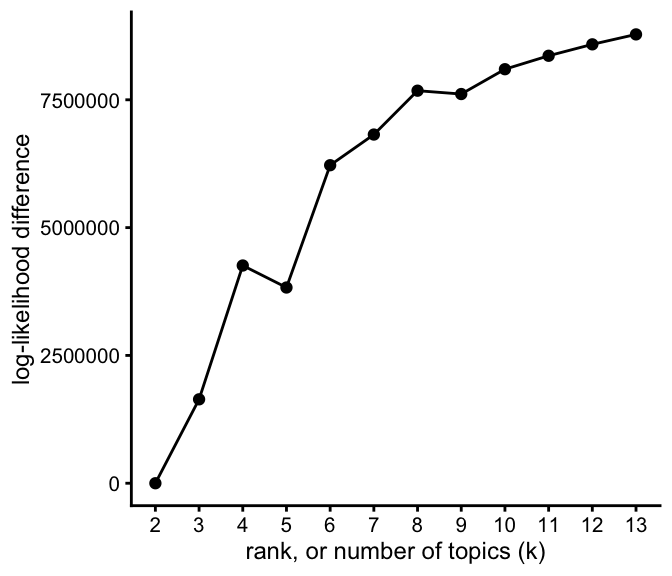
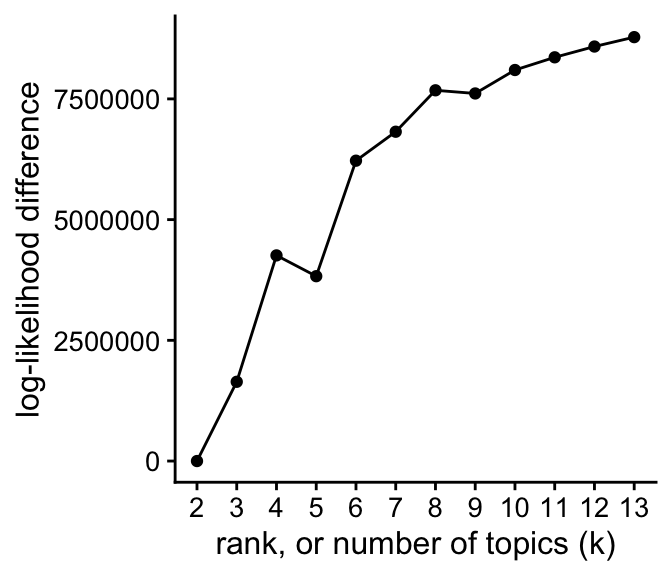
Made several improvements to assess_fits_droplet.

Changed region(s): [[0.0, 0.0312, 1.0, 0.9688], [0.3438, 0.0312, 0.9688, 0.5625], [0.3125, 0.5312, 0.375, 0.6875]]

diff --git a/docs/assess_fits_droplet.html b/docs/assess_fits_droplet.html
@@ -412,16 +412,16 @@ This reproducible <a href="http://rmarkdown.rstudio.com">R Markdown</a> analysis
 <div class="panel panel-default">
 <div class="panel-heading">
 <p class="panel-title">
-<a data-toggle="collapse" data-parent="#workflowr-checks" href="#strongRepositoryversionstrongahrefhttpsgithubcomstephenslabsinglecelltopicstree1ef2ac6e157d203e424ebf3399a96787ccf2bb73targetblank1ef2ac6a"> <span class="glyphicon glyphicon-ok text-success" aria-hidden="true"></span> <strong>Repository version:</strong> <a href="https://github.com/stephenslab/single-cell-topics/tree/1ef2ac6e157d203e424ebf3399a96787ccf2bb73" target="_blank">1ef2ac6</a> </a>
+<a data-toggle="collapse" data-parent="#workflowr-checks" href="#strongRepositoryversionstrongahrefhttpsgithubcomstephenslabsinglecelltopicstree116c9fb52ff4ad2151bd614054e98106d3d57bddtargetblank116c9fba"> <span class="glyphicon glyphicon-ok text-success" aria-hidden="true"></span> <strong>Repository version:</strong> <a href="https://github.com/stephenslab/single-cell-topics/tree/116c9fb52ff4ad2151bd614054e98106d3d57bdd" target="_blank">116c9fb</a> </a>
 </p>
 </div>
[2 lines of base64/hex data omitted]
 <div class="panel-body">
 <p>
 Great! You are using Git for version control. Tracking code development and connecting the code version to the results is critical for reproducibility.
 </p>
 <p>
-The results in this page were generated with repository version <a href="https://github.com/stephenslab/single-cell-topics/tree/1ef2ac6e157d203e424ebf3399a96787ccf2bb73" target="_blank">1ef2ac6</a>. See the <em>Past versions</em> tab to see a history of the changes made to the R Markdown and HTML files.
+The results in this page were generated with repository version <a href="https://github.com/stephenslab/single-cell-topics/tree/116c9fb52ff4ad2151bd614054e98106d3d57bdd" target="_blank">116c9fb</a>. See the <em>Past versions</em> tab to see a history of the changes made to the R Markdown and HTML files.
 </p>
 <p>
 Note that you need to be careful to ensure that all relevant files for the analysis have been committed to Git prior to generating the results (you can use <code>wflow_publish</code> or <code>wflow_git_commit</code>). workflowr only checks the R Markdown file, but you know if there are other scripts or data files that it depends on. Below is the status of the Git repository when the results were generated:
@@ -429,6 +429,9 @@ Note that you need to be careful to ensure that all relevant files for the analy
 <pre><code>
 Ignored files:
     Ignored:    output/droplet/fits-droplet.RData
+
+Unstaged changes:
+    Modified:   code/functions_for_assessing_fits.R
 
 </code></pre>
 <p>
@@ -467,6 +470,40 @@ Message
 </tr>
 </thead>
 <tbody>
+<tr>
+<td>
+Rmd
+</td>
+<td>
+<a href="https://github.com/stephenslab/single-cell-topics/blob/116c9fb52ff4ad2151bd614054e98106d3d57bdd/analysis/assess_fits_droplet.Rmd" target="_blank">116c9fb</a>
+</td>
+<td>
+Peter Carbonetto
+</td>
+<td>
+2020-08-09
+</td>
+<td>
+wflow_publish(“assess_fits_droplet.Rmd”)
+</td>
+</tr>
+<tr>
+<td>
+html
+</td>
+<td>
+<a href="https://rawcdn.githack.com/stephenslab/single-cell-topics/b8a783d0e3ffe4934c06c30065ec46d97f0e0ee1/docs/assess_fits_droplet.html" target="_blank">b8a783d</a>
+</td>
+<td>
+Peter Carbonetto
+</td>
+<td>
+2020-08-09
+</td>
+<td>
+First build of assess_fits_droplet analysis.
+</td>
+</tr>
 <tr>
 <td>
 Rmd
@@ -531,26 +568,130 @@ Working on assess_fits_droplet analysis.
 library(ggplot2)
 library(cowplot)
 source(&quot;../code/functions_for_assessing_fits.R&quot;)</code></pre>
-<p>Load the results of running <code>fit_poisson_nmf</code> on the purified PBMC data, with different algorithms, and for various choices of <span class="math inline">\(k\)</span> (the number of “topics”). These results were then compiled into a single file using the <code>compile_poisson_nmf_fits.R</code> script.</p>
+<p>Load the results of running <code>fit_poisson_nmf</code> on the droplet data, with different algorithms, and for various choices of <span class="math inline">\(k\)</span> (the number of “topics”).</p>
 <pre class="r"><code>load(&quot;../output/droplet/fits-droplet.RData&quot;)</code></pre>
-<p>This plot shows the improvement in the log-likelihood as the rank, <span class="math inline">\(k\)</span>, is increased. The log-likelihoods are shown relative to the log-likelihood at rank <span class="math inline">\(k = 2\)</span>.</p>
-<pre class="r"><code>plot_loglik_vs_rank(fits)</code></pre>
+<p>This plot shows the improvement in the log-likelihood as the rank, <span class="math inline">\(k\)</span>, is increased. The log-likelihoods are shown relative to the log-likelihood at <span class="math inline">\(k = 2\)</span>.</p>
+<pre class="r"><code>plot_loglik_vs_rank(fits) +
+  theme_cowplot(font_size = 12)</code></pre>
 <p><img src="figure/assess_fits_droplet.Rmd/plot-loglik-vs-k-1.png" width="336" style="display: block; margin: auto;" /></p>
-<p>As expected, the likelihood improves with larger rank, <span class="math inline">\(k\)</span>, although these improvements are large for smaller <span class="math inline">\(k\)</span>, and more gradual as <span class="math inline">\(k\)</span> gets larger.</p>
-<p>This first set of plots shows the improvement in the fit over time, for all choices of <span class="math inline">\(k\)</span>, and for each of the three optimization methods (EM, CCD, SCD), with and without the extrapolation scheme. The quality of the fit is measured by the log-likelihood, <em>relative to the best log-likelihood that was identified among all methods compared.</em></p>
+<p>
+<button type="button" class="btn btn-default btn-xs btn-workflowr btn-workflowr-fig" data-toggle="collapse" data-target="#fig-plot-loglik-vs-k-1">
+Past versions of plot-loglik-vs-k-1.png
+</button>
+</p>
+<div id="fig-plot-loglik-vs-k-1" class="collapse">
+<div class="table-responsive">
+<table class="table table-condensed table-hover">
+<thead>
+<tr>
+<th>
+Version
+</th>
+<th>
+Author
+</th>
+<th>
+Date
+</th>
+</tr>
+</thead>
+<tbody>
+<tr>
+<td>
+<a href="https://github.com/stephenslab/single-cell-topics/blob/b8a783d0e3ffe4934c06c30065ec46d97f0e0ee1/docs/figure/assess_fits_droplet.Rmd/plot-loglik-vs-k-1.png" target="_blank">b8a783d</a>
+</td>
+<td>
+Peter Carbonetto
+</td>
+<td>
+2020-08-09
+</td>
+</tr>
+</tbody>
+</table>
+</div>
+</div>
+<p>Oddly, the likelihood did not improve from <span class="math inline">\(k=4\)</span> to <span class="math inline">\(k=5\)</span>. Otherwise, the likelihood improved with larger rank, <span class="math inline">\(k\)</span>.</p>
+<p>The next set of plots shows the improvement in the fit over time, for all choices of <span class="math inline">\(k\)</span>, and for each of the three optimization methods (EM, CCD, SCD), with and without the extrapolation scheme. The quality of the fit is measured by the log-likelihood relative to the best log-likelihood that was identified among all methods compared.</p>
 <pre class="r"><code>create_progress_plots(dat,fits,&quot;loglik&quot;)</code></pre>
 <p><img src="figure/assess_fits_droplet.Rmd/plot-loglik-1.png" width="864" style="display: block; margin: auto;" /></p>
-<p>The second set of plots shows the evolution of Karush-Kuhn-Tucker (KKT) residuals over time; the KKT residuals should vanish near a stationary point of the log-likelihood, so looking at the largest KKT residual can be used to assess how close we are to a solution.</p>
-<p>Note that, unlike the likelihood, the residuals of the KKT conditions are not expected to decrease monotonically over time.</p>
+<p>
+<button type="button" class="btn btn-default btn-xs btn-workflowr btn-workflowr-fig" data-toggle="collapse" data-target="#fig-plot-loglik-1">
+Past versions of plot-loglik-1.png
+</button>
+</p>
+<div id="fig-plot-loglik-1" class="collapse">
+<div class="table-responsive">
+<table class="table table-condensed table-hover">
+<thead>
+<tr>
+<th>
+Version
+</th>
+<th>
+Author
+</th>
+<th>
+Date
+</th>
+</tr>
+</thead>
+<tbody>
+<tr>
+<td>
+<a href="https://github.com/stephenslab/single-cell-topics/blob/b8a783d0e3ffe4934c06c30065ec46d97f0e0ee1/docs/figure/assess_fits_droplet.Rmd/plot-loglik-1.png" target="_blank">b8a783d</a>
+</td>
+<td>
+Peter Carbonetto
+</td>
+<td>
+2020-08-09
+</td>
+</tr>
+</tbody>
+</table>
+</div>
+</div>
+<p>The second set of plots shows the evolution of Karush-Kuhn-Tucker (KKT) residuals over time; the KKT residuals should vanish near a stationary point of the log-likelihood, so looking at the largest KKT residual can be used to assess how close we are to a solution. Note that, unlike the likelihood, the residuals of the KKT conditions are not expected to decrease monotonically over time.</p>
 <pre class="r"><code>create_progress_plots(dat,fits,&quot;res&quot;)</code></pre>
 <p><img src="figure/assess_fits_droplet.Rmd/plot-res-1.png" width="864" style="display: block; margin: auto;" /></p>
-<p>A few striking trends emerge from these plots:</p>
-<ul>
-<li><p>EM (with or without extrapolation) almost always provides the worst fit, and progresses very slowly to a solution.</p></li>
-<li><p>CCD (with or without extrapolation) usually, but not always, progresses to a solution much more quickly than EM, and identifies a better MLE.</p></li>
-<li><p>SCD (with or without extrapolation) almost always progresses more rapidly to a solution.</p></li>
-<li><p>SCD <em>with extrapolation</em> always progresses more rapidly to a solution, and always identifies the best local solution.</p></li>
-</ul>
+<p>
+<button type="button" class="btn btn-default btn-xs btn-workflowr btn-workflowr-fig" data-toggle="collapse" data-target="#fig-plot-res-1">
+Past versions of plot-res-1.png
+</button>
+</p>
+<div id="fig-plot-res-1" class="collapse">
+<div class="table-responsive">
+<table class="table table-condensed table-hover">
+<thead>
+<tr>
+<th>
+Version
+</th>
+<th>
+Author
+</th>
+<th>
+Date
+</th>
+</tr>
+</thead>
+<tbody>
+<tr>
+<td>
+<a href="https://github.com/stephenslab/single-cell-topics/blob/b8a783d0e3ffe4934c06c30065ec46d97f0e0ee1/docs/figure/assess_fits_droplet.Rmd/plot-res-1.png" target="_blank">b8a783d</a>
+</td>
+<td>
+Peter Carbonetto
+</td>
+<td>
+2020-08-09
+</td>
+</tr>
+</tbody>
+</table>
+</div>
+</div>
 <br>
 <p>
 <button type="button" class="btn btn-default btn-workflowr btn-workflowr-sessioninfo" data-toggle="collapse" data-target="#workflowr-sessioninfo" style="display: block;">
